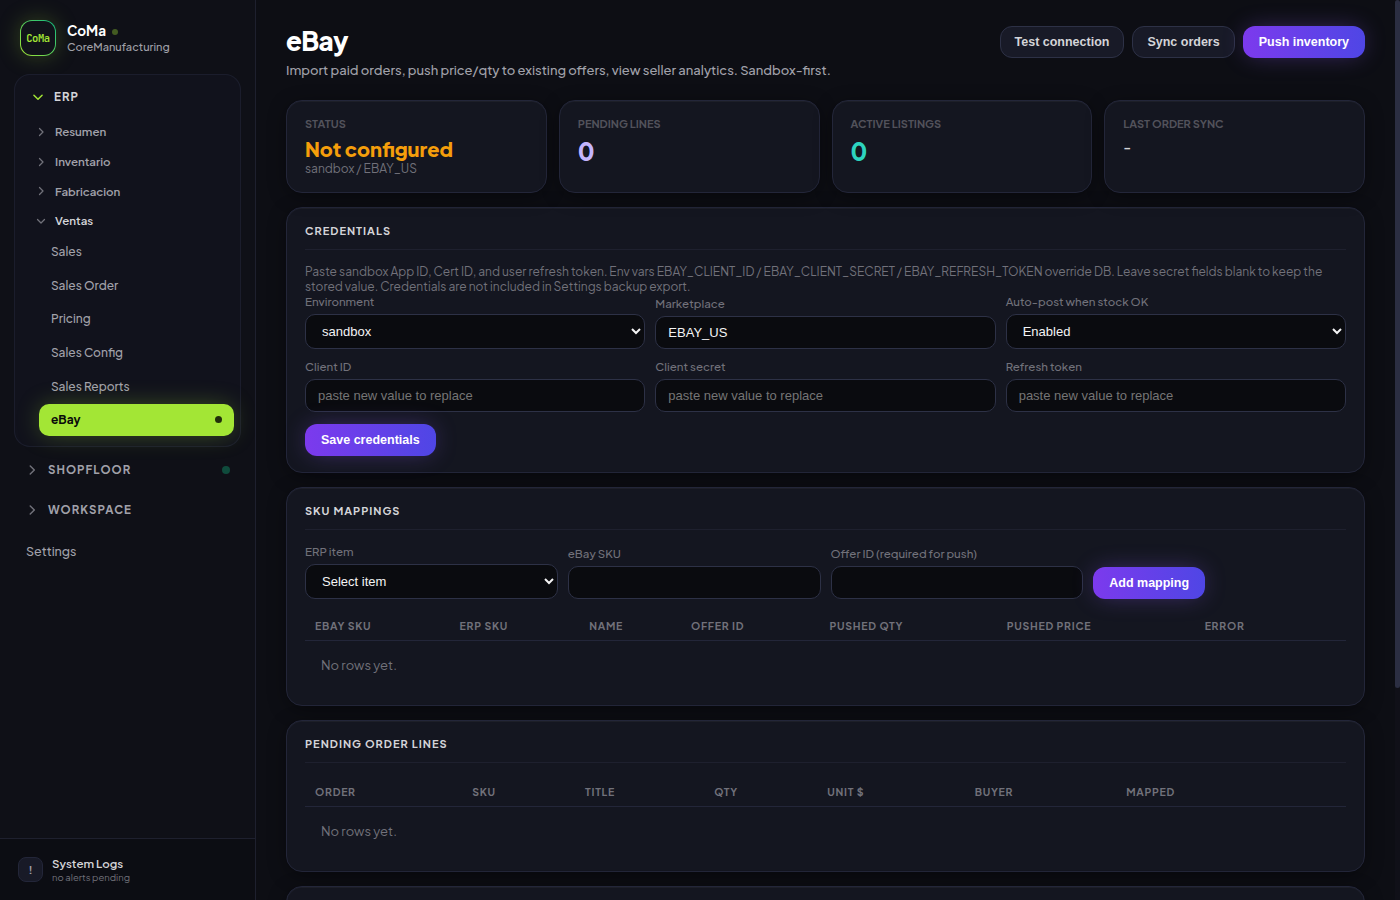
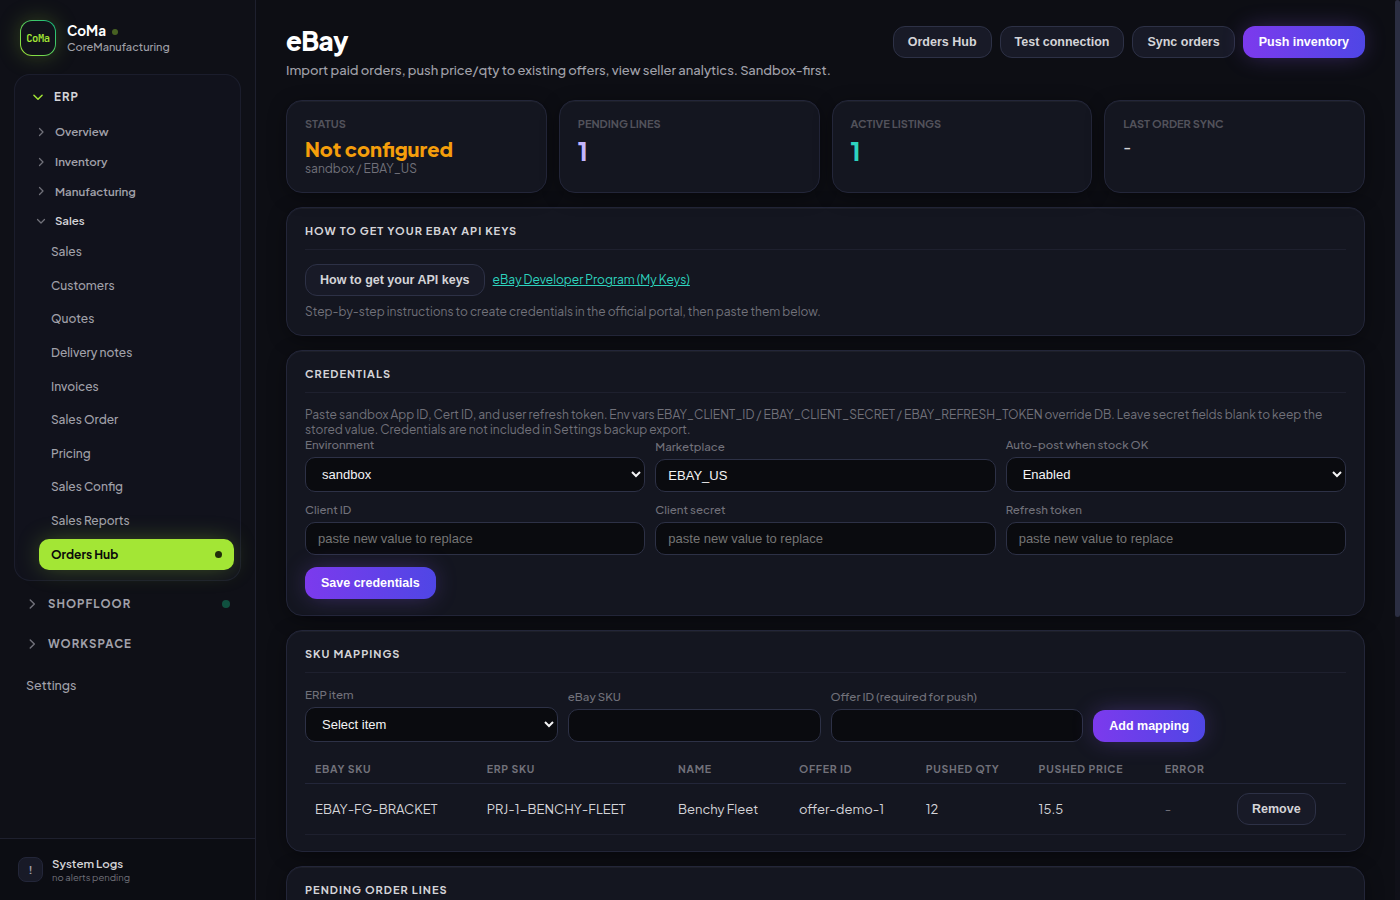
docs: Orders Hub screenshots and operator-facing references
Refresh the README gallery with Orders Hub, eBay, and Shopify captures
seeded for non-empty demo rows, and point README, user-guide, web-app,
and server docs at the new Sales → Orders Hub entry instead of a lone
eBay link.

diff --git a/scripts/capture-readme-screenshots.js b/scripts/capture-readme-screenshots.js
@@ -33,7 +33,9 @@ const PAGES = [
   ['/erp/quotes', 'erp-quotes.png'],
   ['/erp/delivery-notes', 'erp-delivery-notes.png'],
   ['/erp/invoices', 'erp-invoices.png'],
-  ['/erp/ebay', 'erp-ebay.png'],
+  ['/erp/orders-hub', 'erp-orders-hub.png'],
+  ['/erp/orders-hub/ebay', 'erp-ebay.png'],
+  ['/erp/orders-hub/shopify', 'erp-shopify.png'],
   ['/erp/postings', 'erp-postings.png'],
   ['/settings', 'settings.png'],
 ];
@@ -190,6 +192,80 @@ function seedSalesDocsDemo(db) {
   ], 'Factura borrador lista para confirmar');
 }
 
+/**
+ * Seed marketplace demo rows so Orders Hub / eBay / Shopify gallery shots are not empty.
+ * Credentials stay unset (configured=false) so secrets never appear in screenshots.
+ */
+function seedOrdersHubDemo(db) {
+  const hasEbay = db.prepare(
+    "SELECT 1 AS ok FROM sqlite_master WHERE type = 'table' AND name = 'ebay_listing'"
+  ).get();
+  const hasShopify = db.prepare(
+    "SELECT 1 AS ok FROM sqlite_master WHERE type = 'table' AND name = 'shopify_listing'"
+  ).get();
+  if (!hasEbay && !hasShopify) return;
+
+  const item = db.prepare(
+    "SELECT id, sku, name FROM item WHERE sku = 'FG-BRACKET' OR item_role = 'product' ORDER BY id LIMIT 1"
+  ).get();
+  if (!item) return;
+
+  const now = Date.now();
+
+  if (hasEbay) {
+    const ebayMap = db.prepare("SELECT id FROM ebay_listing WHERE ebay_sku = 'EBAY-FG-BRACKET'").get();
+    if (!ebayMap) {
+      db.prepare(`
+        INSERT INTO ebay_listing (item_id, ebay_sku, offer_id, listing_id, last_pushed_qty, last_pushed_price, is_active)
+        VALUES (?, 'EBAY-FG-BRACKET', 'offer-demo-1', 'listing-demo-1', 12, 15.5, 1)
+      `).run(item.id);
+    }
+    const ebayOrder = db.prepare("SELECT id FROM ebay_order WHERE order_id = 'DEMO-EBAY-ORD-1'").get();
+    if (!ebayOrder) {
+      db.prepare(`
+        INSERT INTO ebay_order
+          (order_id, legacy_order_id, creation_date, last_modified_date, order_payment_status,
+           order_fulfillment_status, buyer_username, total_amount, currency, marketplace_id,
+           raw_json, imported_at)
+        VALUES ('DEMO-EBAY-ORD-1', 'LEG-DEMO-1', '2026-09-17T12:00:00.000Z', '2026-09-17T12:05:00.000Z',
+                'PAID', 'NOT_STARTED', 'demo_buyer', 15.5, 'USD', 'EBAY_US', '{}', ?)
+      `).run(now);
+      db.prepare(`
+        INSERT INTO ebay_order_line
+          (line_item_id, ebay_order_id, ebay_sku, title, qty, unit_price, total_price, item_id, status)
+        VALUES ('DEMO-EBAY-LINE-1', 'DEMO-EBAY-ORD-1', 'EBAY-FG-BRACKET', ?, 1, 15.5, 15.5, ?, 'pending')
+      `).run(item.name || 'Bracket', item.id);
+    }
+  }
+
+  if (hasShopify) {
+    const shopMap = db.prepare("SELECT id FROM shopify_listing WHERE shopify_sku = 'SHOP-FG-BRACKET'").get();
+    if (!shopMap) {
+      db.prepare(`
+        INSERT INTO shopify_listing
+          (item_id, shopify_sku, variant_id, inventory_item_id, location_id,
+           last_pushed_qty, last_pushed_price, is_active)
+        VALUES (?, 'SHOP-FG-BRACKET', '555001', '777001', '888001', 12, 15.5, 1)
+      `).run(item.id);
+    }
+    const shopOrder = db.prepare("SELECT id FROM shopify_order WHERE order_id = '1001'").get();
+    if (!shopOrder) {
+      db.prepare(`
+        INSERT INTO shopify_order
+          (order_id, name, created_at, updated_at, financial_status, fulfillment_status,
+           buyer_email, total_amount, currency, raw_json, imported_at)
+        VALUES ('1001', '#1001', '2026-09-17T12:00:00.000Z', '2026-09-17T12:05:00.000Z',
+                'paid', null, 'buyer@example.com', 15.5, 'USD', '{}', ?)
+      `).run(now);
+      db.prepare(`
+        INSERT INTO shopify_order_line
+          (line_item_id, shopify_order_id, shopify_sku, title, qty, unit_price, total_price, item_id, status)
+        VALUES ('2001', '1001', 'SHOP-FG-BRACKET', ?, 1, 15.5, 15.5, ?, 'pending')
+      `).run(item.name || 'Bracket', item.id);
+    }
+  }
+}
+
 function sleep(ms) { return new Promise(r => setTimeout(r, ms)); }
 
 async function getJson(url, retries = 50) {
@@ -324,6 +400,9 @@ async function main() {
     seedWorkspaceDemo(db);
     try { seedSalesDocsDemo(db); } catch (err) {
       console.warn('[capture] sales-docs seed skipped:', err.message);
+    }
+    try { seedOrdersHubDemo(db); } catch (err) {
+      console.warn('[capture] orders-hub seed skipped:', err.message);
     }
   } catch (err) {
     console.warn('[capture] workspace seed skipped:', err.message);

diff --git a/README.md b/README.md
@@ -2,7 +2,7 @@
 
 **Self-hosted shopfloor + manufacturing ERP for a multi-brand 3D print farm.**
 
-One Node process. One SQLite file. Live fleet dispatch for Prusa, Bambu, Elegoo, Klipper, and OctoPrint, plus inventory, costing, work orders, sales documents (quote / delivery note / invoice), eBay Sell sync, timelapses, a planning calendar with production closures that actually stop new job dispatch, and a Workspace board + technical notebook for operator tasks.
+One Node process. One SQLite file. Live fleet dispatch for Prusa, Bambu, Elegoo, Klipper, and OctoPrint, plus inventory, costing, work orders, sales documents (quote / delivery note / invoice), Orders Hub marketplace sync (eBay + Shopify), timelapses, a planning calendar with production closures that actually stop new job dispatch, and a Workspace board + technical notebook for operator tasks.
 
 Fork of [joeltelling/print-farm-manager](https://github.com/joeltelling/print-farm-manager), tuned for Linux ops. Product name: **CoMa** (short) / **CoreManufacturing** (long).
 
@@ -124,12 +124,25 @@ Operator queue after Set Ready: confirm ERP stock moves without inventing part c
 
 ![ERP postings queue](docs/images/erp-postings.png)
 
+### Orders Hub
+
+One place for marketplace channels: eBay and Shopify live today; Amazon and Mercado Libre listed as coming soon. Each channel page includes an in-app guide for obtaining API keys.
+
+![Orders Hub overview](docs/images/erp-orders-hub.png)
+
 ### eBay Sell
 
 Sandbox credentials, SKU to offer mapping, pending order lines, inventory push.
 (Not yet validated on a real eBay production account.)
 
-![eBay integration page under ERP Sales](docs/images/erp-ebay.png)
+![eBay page under Orders Hub](docs/images/erp-ebay.png)
+
+### Shopify Admin
+
+Custom-app Admin API token, SKU to variant mapping, pending order lines, inventory push.
+(Implemented from Shopify Admin REST docs; not yet validated on a real Shopify store.)
+
+![Shopify page under Orders Hub](docs/images/erp-shopify.png)
 
 ### Settings
 
@@ -190,15 +203,17 @@ Neither surface touches printers or `completed_qty`. See [docs/workspace.md](doc
 | Sales documents | Customers + Quote → Delivery note → Invoice chain, tax lines, PDF export |
 | Postings | Queue after Set Ready; never invents `completed_qty`; can attach to a delivery note |
 | Analytics | Profitability, machine OEE, std vs actual variance |
+| Orders Hub | Marketplace registry: eBay + Shopify live; Amazon / Mercado Libre planned |
 | eBay Sell | Import paid orders, push price+qty to existing offers, seller analytics |
+| Shopify Admin | Import orders, push price+qty to existing variants (custom-app token) |
 
-Guide: [docs/erp/README.md](docs/erp/README.md) (sales documents) and [docs/erp/ebay.md](docs/erp/ebay.md).
+Guide: [docs/erp/orders-hub.md](docs/erp/orders-hub.md), [docs/erp/ebay.md](docs/erp/ebay.md), [docs/erp/shopify.md](docs/erp/shopify.md).
 
 Settings → General picks the default sales landing (`legacy` Sales Order vs `quotes_flow` documents). Both flows stay available.
 
 ### Ops
 
-- JSON backup for shopfloor + ERP + G-code files (`auth_*` and eBay secrets excluded on purpose)
+- JSON backup for shopfloor + ERP + G-code files (`auth_*`, eBay, and Shopify secrets excluded on purpose)
 - Organic vs seed databases so demos never overwrite real farm data
 - Linux `./start.sh` / `./stop.sh` / `./restart.sh`, Docker Compose, optional PM2
 
@@ -275,7 +290,7 @@ Same ports as above. Tests: `docker compose exec print-farm-manager-dev npm test
 
 ### Option A: Docker
 
-Upstream publishes multi-arch images to GHCR ([docs/docker-publish.md](docs/docker-publish.md)). To run **this fork** (ERP, telemetry, timelapse, calendar, eBay), build from source until a fork image is published:
+Upstream publishes multi-arch images to GHCR ([docs/docker-publish.md](docs/docker-publish.md)). To run **this fork** (ERP, telemetry, timelapse, calendar, Orders Hub), build from source until a fork image is published:
 
 ```bash
 git clone https://github.com/mdwcoder/core-manufacturing.git
@@ -317,7 +332,7 @@ npm start
 | Confirm stock after Set Ready | ERP → Postings |
 | Customers / quotes / delivery / invoices | ERP → Sales → Customers / Quotes / Delivery notes / Invoices |
 | OEE / margin / cost variance | ERP → Analytics |
-| eBay orders and inventory push | ERP → Sales → eBay |
+| Marketplace orders (eBay / Shopify) | ERP → Sales → Orders Hub |
 | Backup / account / sales flow default | Settings |
 
 ---
@@ -357,7 +372,7 @@ Node is pinned to `>=22 <24` because native `better-sqlite3` builds break on Nod
 ```
 core-manufacturing/
 ├── server/
-│   ├── index.js            # Express: shopfloor + /api/erp + /api/erp/ebay + SPA
+│   ├── index.js            # Express: shopfloor + /api/erp + ebay/shopify/channels + SPA
 │   ├── db.js               # SQLite + additive migrations
 │   ├── poller.js           # 15 s poll + telemetry + timelapse hooks
 │   ├── scheduler.js        # Dispatch + job close + calendar gate
@@ -365,6 +380,8 @@ core-manufacturing/
 │   ├── auth.js             # Local login (scrypt + session cookie)
 │   ├── erp/                # Embedded ERP
 │   ├── ebay/               # eBay Sell client, orders, inventory push, runner
+│   ├── shopify/            # Shopify Admin client, orders, inventory push, runner
+│   ├── channels/           # Orders Hub channel registry + aggregator
 │   ├── drivers/            # prusa, elegoo-*, bambu, klipper, octoprint
 │   └── routes/             # printers, projects, calendar, workspace, notebook, backup, ...
 ├── client/                 # React + Vite SPA
@@ -388,7 +405,9 @@ core-manufacturing/
 | [docs/calendar.md](docs/calendar.md) | Planned events and production-closure gate |
 | [docs/workspace.md](docs/workspace.md) | Workspace board and technical notebook |
 | [docs/erp/README.md](docs/erp/README.md) | Embedded ERP |
+| [docs/erp/orders-hub.md](docs/erp/orders-hub.md) | Orders Hub (marketplace channels) |
 | [docs/erp/ebay.md](docs/erp/ebay.md) | eBay Sell integration |
+| [docs/erp/shopify.md](docs/erp/shopify.md) | Shopify Admin integration |
 | [docs/api.md](docs/api.md) | REST contracts |
 | [docs/web-app.md](docs/web-app.md) | React pages and UI |
 | [docs/database.md](docs/database.md) | Schema |

diff --git a/docs/server.md b/docs/server.md
@@ -15,6 +15,8 @@
 | `server/scheduler.js` | Job dispatch engine — listens to poller events, dispatches prints |
 | `server/calendar-gate.js` | Shared `activeDispatchBlock(db)` used by scheduler and dispatch-status |
 | `server/ebay/` | eBay Sell APIs (orders, inventory push, analytics); see [docs/erp/ebay.md](erp/ebay.md) |
+| `server/shopify/` | Shopify Admin APIs (orders, inventory push); see [docs/erp/shopify.md](erp/shopify.md) |
+| `server/channels/` | Orders Hub channel registry + `GET /api/erp/channels`; see [docs/erp/orders-hub.md](erp/orders-hub.md) |
 | `server/notifications.js` | In-memory alert store for recoverable server errors |
 | `server/routes/` | One file per resource (printers, projects, parts, gcodes, jobs, calendar, workspace, notebook, backup) |
 | `server/data/farm.db` | SQLite database file (auto-created, gitignored) |
@@ -26,7 +28,7 @@
 2. All route modules are instantiated with the `db` instance injected.
 3. Express app is configured with `express.json()` and route mounting.
 4. `app.listen()` binds to the port.
-5. Inside the listen callback, `PrinterPoller` and `JobScheduler` are instantiated. `scheduler.start()` is called first (subscribes to poller events), then `poller.start()` fires the first poll tick and starts the 15-second interval. Hourly DB file backup, timelapse retention, and the eBay sync runner (`server/ebay/runner.js`) also start here.
+5. Inside the listen callback, `PrinterPoller` and `JobScheduler` are instantiated. `scheduler.start()` is called first (subscribes to poller events), then `poller.start()` fires the first poll tick and starts the 15-second interval. Hourly DB file backup, timelapse retention, and the marketplace sync runners (`server/ebay/runner.js`, `server/shopify/runner.js`) also start here.
 6. The startup sweep (`sweepIdlePrinters`) is deferred until the poller emits `pollComplete` after its first tick. This ensures dispatch works from live printer state rather than stale DB values from before the last shutdown — preventing accidental dispatch to a printer that started printing while the server was down.
 
 ## Configuration
@@ -35,8 +37,9 @@
 |---|---|---|
 | `PORT` | `3000` | Express listening port — override with `process.env.PORT` |
 | `EBAY_CLIENT_ID` / `EBAY_CLIENT_SECRET` / `EBAY_REFRESH_TOKEN` | unset | Optional eBay credentials (override DB); see [docs/erp/ebay.md](erp/ebay.md) |
+| `SHOPIFY_SHOP_DOMAIN` / `SHOPIFY_ACCESS_TOKEN` / `SHOPIFY_API_VERSION` | unset | Optional Shopify credentials (override DB); see [docs/erp/shopify.md](erp/shopify.md) |
 
-No `.env` file is required for core shopfloor. eBay can use env vars or the ERP UI.
+No `.env` file is required for core shopfloor. Marketplace credentials can use env vars or the Orders Hub UI.
 
 ## Login Gate
 
@@ -60,6 +63,8 @@ DELETE /api/notifications/:id       → notifications.dismiss() (inline handler)
 *      /api/notebook                → server/routes/notebook.js
 *      /api/backup                  → server/routes/backup.js
 *      /api/erp/ebay                → server/ebay (before /api/erp)
+*      /api/erp/shopify             → server/shopify (before /api/erp)
+*      /api/erp/channels            → server/channels (Orders Hub aggregator)
 *      /api/erp                     → server/erp
 ```
 All route modules export a factory function `(db) => router`. This passes the shared synchronous `better-sqlite3` instance into each router without any global state.

diff --git a/docs/user-guide.md b/docs/user-guide.md
@@ -185,6 +185,13 @@ Hay dos flujos (ambos siempre visibles en la barra; Settings > General elige el 
 
 Detalle: [docs/erp/README.md](erp/README.md#sales-documents-quote--delivery-note--invoice).
 
+**Orders Hub (marketplaces)**
+- **Orders Hub** (`/erp/orders-hub`): overview de canales (eBay y Shopify activos; Amazon y Mercado Libre proximamente)
+- Cada canal tiene guia in-app para obtener las API keys
+- Importa pedidos pagados al ERP (hybrid auto-post o cola pendiente) y empuja precio/qty a listings existentes
+- Nunca toca `parts.completed_qty`
+- Detalle: [docs/erp/orders-hub.md](erp/orders-hub.md), [docs/erp/ebay.md](erp/ebay.md), [docs/erp/shopify.md](erp/shopify.md)
+
 ---
 
 ## 5. Postings: de la impresora al inventario ERP
@@ -298,6 +305,8 @@ Flujo E2E recomendado con seed (detalle tambien en [erp/README.md](erp/README.md
 | `/erp/manufacturing`, `/erp/machines`, `/erp/components`, `/erp/bom`, `/erp/wo` | Fabricacion |
 | `/erp/sales`, `/erp/sales/*` | Sales (legacy Sales Order / pricing) |
 | `/erp/customers`, `/erp/quotes`, `/erp/delivery-notes`, `/erp/invoices` | Customers and Quote / Delivery note / Invoice documents |
+| `/erp/orders-hub` | Orders Hub (eBay, Shopify, planned channels) |
+| `/erp/orders-hub/ebay`, `/erp/orders-hub/shopify` | Channel detail pages |
 
 ---
 
@@ -322,6 +331,7 @@ Logs de desarrollo: `.run/dev.log`.
 |---|---|
 | [installation.md](installation.md) | Instalar, systemd, Docker, simulador |
 | [erp/README.md](erp/README.md) | Paridad Acres, postings, sync |
+| [erp/orders-hub.md](erp/orders-hub.md) | Orders Hub (eBay / Shopify) |
 | [web-app.md](web-app.md) | Paginas React y convenciones UI |
 | [api.md](api.md) | Contratos REST |
 | [database.md](database.md) | Tablas y columnas |

diff --git a/docs/web-app.md b/docs/web-app.md
@@ -34,7 +34,8 @@ Nav is a three-level tree: **module** (ERP, Shopfloor, Workspace), **group** (on
 | `client/src/pages/Erp.jsx` | ERP route exports; `/erp` renders the live ERP Dashboard |
 | `client/src/pages/erp/modules.jsx` | Dashboard, postings (std/actual cost), analytics, manufacturing dashboard, products/components, locations, inventory charts, machines, MFG components, BOM, WO, QR |
 | `client/src/pages/erp/sales.jsx` | Sales dashboard, defaults, pricing (Enter/Escape), order entry with live totals, matrix badges/sort, history exports |
-| `client/src/pages/erp/ebay.jsx` | eBay Sell: credentials, SKU maps, pending order queue, inventory push, analytics |
+| `client/src/pages/erp/ordersHub/` | Orders Hub overview, Shopify page, ChannelGuide + key-acquisition guides |
+| `client/src/pages/erp/ebay.jsx` | eBay Sell: credentials, SKU maps, pending order queue, inventory push, analytics (under Orders Hub) |
 | `client/src/pages/erp/format.js` | Acres-compatible numeric display helpers |
 | `client/src/pages/erp/qr.js` | Dependency-free local QR SVG generator for printable WO pick lists |
 | `client/src/pages/Timelapses.jsx` | Timelapse gallery, manual start, video/frame preview |

diff --git a/docs/CHANGELOG.md b/docs/CHANGELOG.md
@@ -2,6 +2,25 @@
 
 ---
 
+## 2026-09-18: Orders Hub gallery shots and docs aligned
+
+After Orders Hub shipped (eBay + Shopify + planned Amazon / Mercado Libre), the
+public README still showed a lone eBay Sales entry and a single `erp-ebay.png`
+shot. Regenerated the gallery against seed data (including new
+`erp-orders-hub.png` and `erp-shopify.png`), seeded demo marketplace mappings /
+pending lines so the shots are not empty, and updated the operator-facing docs
+so strangers see Orders Hub where eBay used to stand alone.
+
+### Changes
+- `scripts/capture-readme-screenshots.js`: capture `/erp/orders-hub`, ebay, shopify;
+  `seedOrdersHubDemo` for non-empty gallery rows (no secrets in screenshots)
+- `docs/images/erp-orders-hub.png`, `erp-ebay.png`, `erp-shopify.png`: fresh captures
+- `README.md`: gallery sections, capability table, operator map, structure, docs index
+- `docs/web-app.md`, `docs/server.md`, `docs/README.md`, `docs/user-guide.md`,
+  `docs/erp/orders-hub.md`: Orders Hub / Shopify references and routes
+
+---
+
 ## 2026-09-18: Orders Hub with Shopify connector and channel registry
 
 Marketplace sales connections now live under one ERP screen, **Orders Hub**

diff --git a/docs/erp/orders-hub.md b/docs/erp/orders-hub.md
@@ -13,6 +13,8 @@ Unified entry point for marketplace sales channels inside CoMa ERP. Operators op
 
 Each available channel keeps its own tables, credentials, runner, and hybrid posting path. Orders Hub only aggregates status; it never posts stock itself.
 
+README gallery shots: `docs/images/erp-orders-hub.png`, `erp-ebay.png`, `erp-shopify.png` (regenerate with `scripts/capture-readme-screenshots.js`).
+
 ## In-app key guides
 
 Every channel page embeds a collapsible **How to get your API keys** guide (`client/src/pages/erp/ordersHub/guides.js` + `ChannelGuide.jsx`) with numbered steps and links to the official portal. Guides are English, same as the rest of the operator UI.

diff --git a/docs/README.md b/docs/README.md
@@ -53,6 +53,9 @@ core-manufacturing/
 │ ├── events.js # Printer event log helper
 │ ├── notifications.js # In-memory operator alerts
 │ ├── erp/ # Embedded ERP (schema, costing, postings, reports, PDF)
+│ ├── ebay/ # eBay Sell APIs
+│ ├── shopify/ # Shopify Admin APIs
+│ ├── channels/ # Orders Hub registry + aggregator
 │ ├── drivers/ # Per-brand connectors
 │ └── routes/ # printers, projects, jobs, timelapses, backup, settings, ...
 ├── client/
